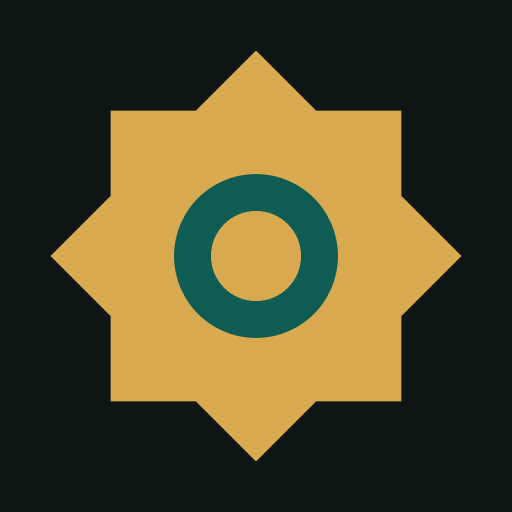
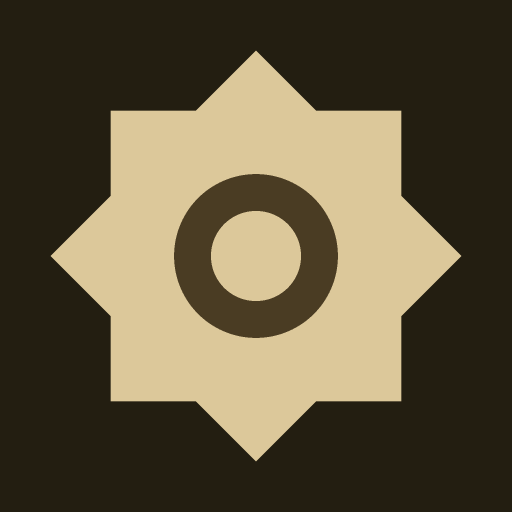
Palette Golden Grove
Bruns et crèmes chauds (#231E11 → #F5EFD8) pour les thèmes clair et sombre, la barre du navigateur et l'icône.

diff --git a/index.html b/index.html
@@ -5,7 +5,7 @@
 <meta name="viewport" content="width=device-width, initial-scale=1, viewport-fit=cover">
 <title>Lawhi</title>
 <meta name="description" content="Écouter le Coran, apprendre à lire et écrire l'arabe, connaître l'histoire de l'islam.">
-<meta name="theme-color" content="#0c0e0d">
+<meta name="theme-color" content="#231e11">
 <link rel="manifest" href="manifest.webmanifest">
 <link rel="icon" href="icon-192.png">
 <link rel="apple-touch-icon" href="icon-192.png">
@@ -16,21 +16,22 @@
 <link rel="preconnect" href="https://fonts.gstatic.com" crossorigin>
 <link rel="stylesheet" href="https://fonts.googleapis.com/css2?family=Amiri+Quran&family=Noto+Naskh+Arabic:wght@400;600&family=Manrope:wght@400;500;600;700&display=swap">
 <style>
-/* Mise en page : une colonne calme, des filets plutôt que des cartes, une seule couleur d'accent.
+/* Palette « Golden Grove » : bruns et crèmes chauds, de #231E11 à #F5EFD8.
+   Mise en page : une colonne calme, des filets plutôt que des cartes, une seule couleur d'accent.
    Les réglages restent cachés derrière des icônes. */
 :root {
-  --bg: #f7f8f7;
-  --surface: #ffffff;
-  --surface-2: #eef1ef;
-  --fg: #141816;
-  --muted: #6d7571;
-  --faint: #a3aaa6;
-  --line: #e3e7e4;
-  --accent: #17735c;
-  --accent-fg: #ffffff;
-  --gold: #8a6a2b;
-  --good: #2f7d4f;
-  --bad: #c0443d;
+  --bg: #f5efd8;
+  --surface: #fbf7ea;
+  --surface-2: #ece2c4;
+  --fg: #231e11;
+  --muted: #7a6640;
+  --faint: #b69a67;
+  --line: #e2d5af;
+  --accent: #4a3c23;
+  --accent-fg: #f5efd8;
+  --gold: #7a6640;
+  --good: #5b7a3a;
+  --bad: #a8432f;
   --font-ui: "Manrope", system-ui, -apple-system, "Segoe UI", sans-serif;
   --font-quran: "Amiri Quran", "Noto Naskh Arabic", "Traditional Arabic", serif;
   --font-ar: "Noto Naskh Arabic", "Amiri Quran", "Traditional Arabic", serif;
@@ -41,14 +42,14 @@
 }
 @media (prefers-color-scheme: dark) {
   :root:not([data-theme="light"]) {
-    --bg: #0c0e0d; --surface: #131615; --surface-2: #1a1e1c; --fg: #e9ecea; --muted: #8d9591; --faint: #59615d;
-    --line: #222725; --accent: #74d0b0; --accent-fg: #06140f; --gold: #cfae6c; --good: #6cc48f; --bad: #e57a7a;
+    --bg: #231e11; --surface: #2b2515; --surface-2: #362e1c; --fg: #f5efd8; --muted: #b69a67; --faint: #7a6640;
+    --line: #3d3422; --accent: #dcc89a; --accent-fg: #231e11; --gold: #dcc89a; --good: #a9c47f; --bad: #e08a6f;
     color-scheme: dark;
   }
 }
 :root[data-theme="dark"] {
-  --bg: #0c0e0d; --surface: #131615; --surface-2: #1a1e1c; --fg: #e9ecea; --muted: #8d9591; --faint: #59615d;
-  --line: #222725; --accent: #74d0b0; --accent-fg: #06140f; --gold: #cfae6c; --good: #6cc48f; --bad: #e57a7a;
+  --bg: #231e11; --surface: #2b2515; --surface-2: #362e1c; --fg: #f5efd8; --muted: #b69a67; --faint: #7a6640;
+  --line: #3d3422; --accent: #dcc89a; --accent-fg: #231e11; --gold: #dcc89a; --good: #a9c47f; --bad: #e08a6f;
   color-scheme: dark;
 }
 * { box-sizing: border-box; }

diff --git a/app.js b/app.js
@@ -596,7 +596,7 @@ function applyTheme() {
   if (t) document.documentElement.dataset.theme = t; else delete document.documentElement.dataset.theme;
   const dark = t ? t === "dark" : matchMedia("(prefers-color-scheme: dark)").matches;
   const tb = $("#themeBtn"); if (tb) tb.innerHTML = dark ? I.sun : I.moon;
-  document.querySelector('meta[name="theme-color"]').content = dark ? "#0f1716" : "#f2f4f2";
+  document.querySelector('meta[name="theme-color"]').content = dark ? "#231e11" : "#f5efd8";
 }
 
 // ---------- Événements ----------
